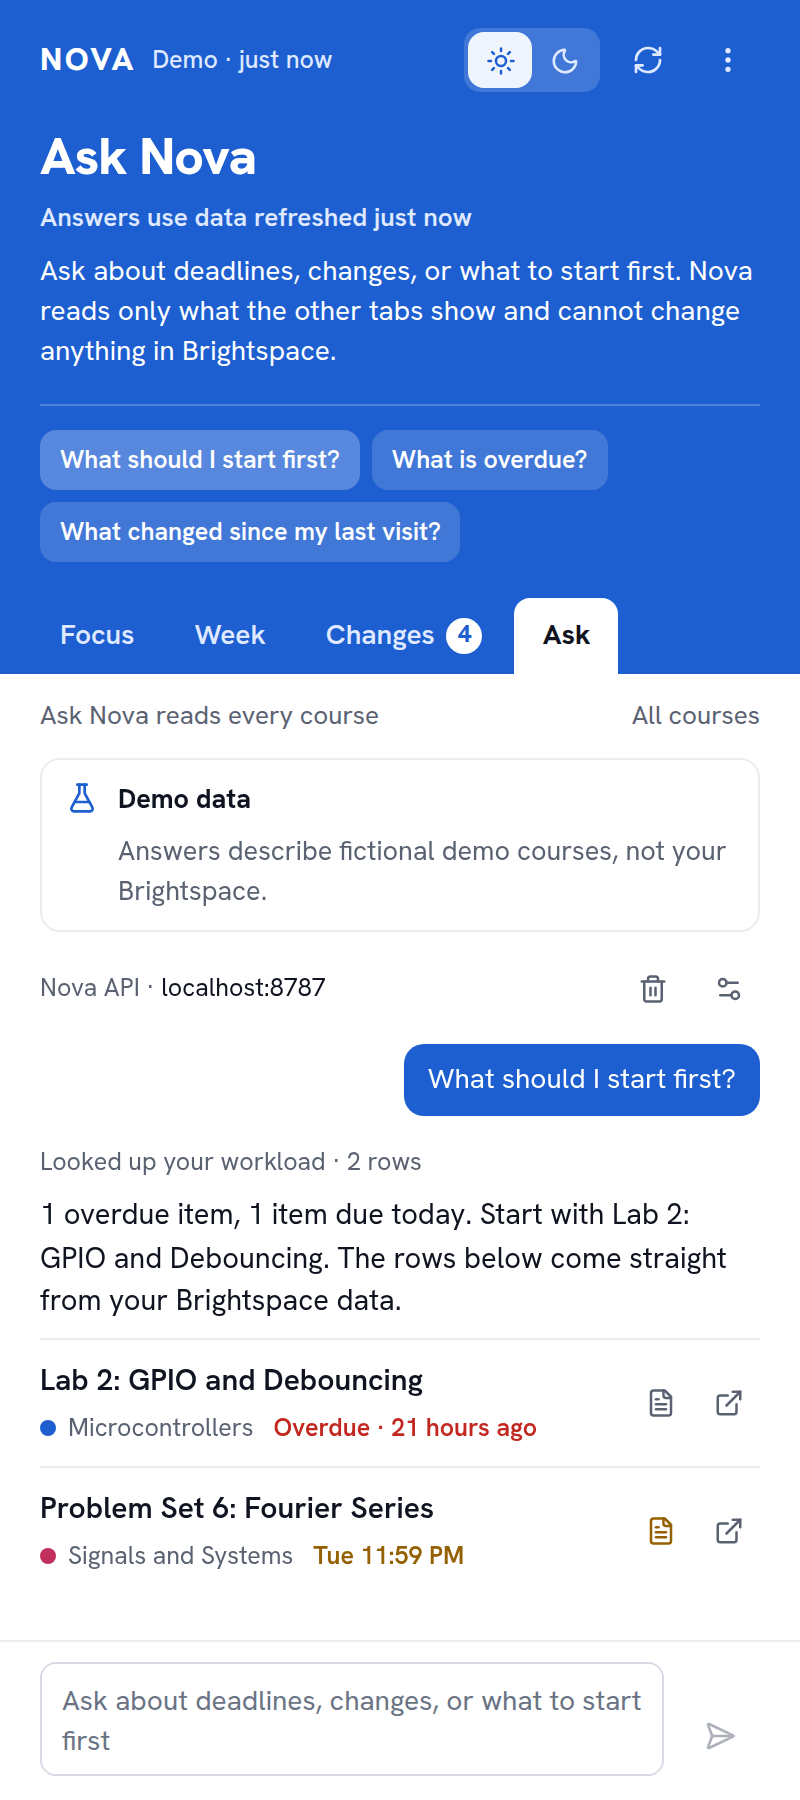
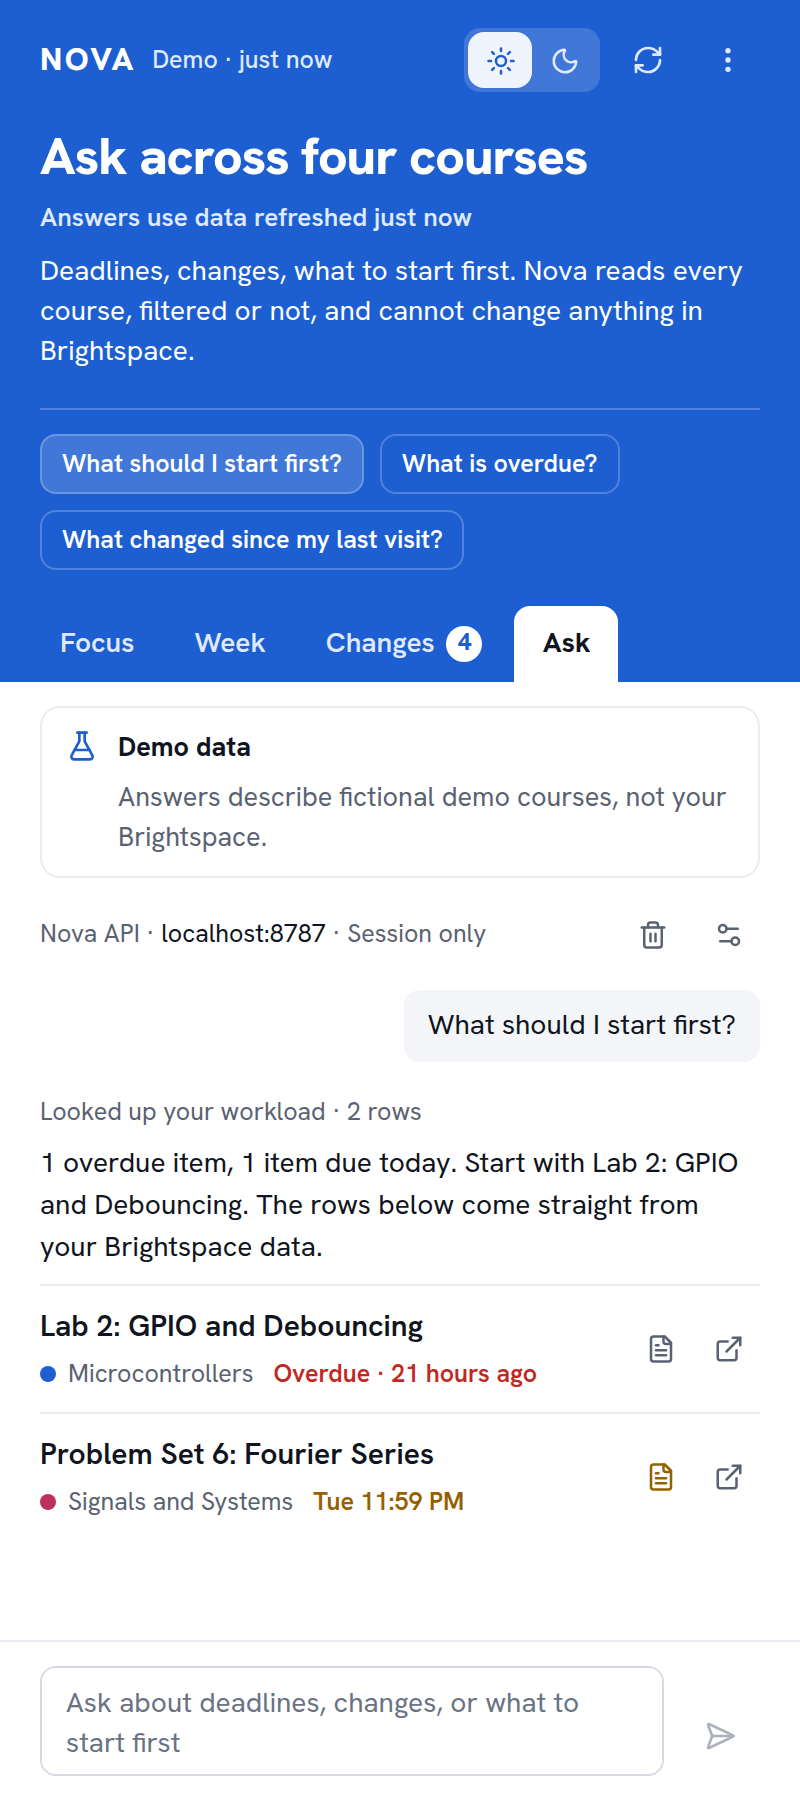
fix(extension): Ask tab finish-review fixes
- Headline is computed like the other tabs: "Ask across four courses" with
  the data age as meta, or "Ask Nova is off" with the consent card demoted
  to a plain lead.
- Chips on the field are outlined with the field rule and wash on hover;
  the user's question is a Surface wash, so the field stays the only blue
  block; answer text and spacing sit on the scale.
- No filter row on Ask; the status line carries "Session only".
- Consent copy names OpenRouter, says announcement titles ship and bodies
  do not, and claims only what the extension can vouch for.
- Change rows share the Changes tab's read state and format dates on the
  device; the thread scrolls its own container; "Thinking…" is spelled out.
- DESIGN.md and PRODUCT.md record the chips, the composer height, the
  bubble, and the named recipient.

Claude-Session: https://claude.ai/code/session_01S3WW9YeRyY937cNbjwGNCi

diff --git a/apps/extension/src/sidepanel/styles.css b/apps/extension/src/sidepanel/styles.css
@@ -372,12 +372,12 @@ h1, h2, h3, h4, p { margin: 0; }
 .ask-status { display: flex; align-items: center; gap: 6px; min-height: 32px; font-size: 12.5px; color: var(--nova-muted); }
 .ask-status .mono { color: var(--nova-ink); }
 .ask-empty { margin-top: 4px; }
-.ask-messages { display: flex; flex-direction: column; gap: 14px; }
+.ask-messages { display: flex; flex-direction: column; gap: 16px; }
 .ask-msg { display: flex; flex-direction: column; gap: 6px; }
 .ask-msg[data-role="user"] { align-items: flex-end; }
-.ask-bubble { max-width: 85%; padding: 8px 12px; border-radius: var(--nova-radius-md); background: var(--nova-accent); color: var(--nova-accent-ink); font-size: 14px; line-height: 1.4; white-space: pre-wrap; overflow-wrap: anywhere; }
-.ask-answer { font-size: 14.5px; line-height: 1.5; white-space: pre-wrap; overflow-wrap: anywhere; color: var(--nova-ink); }
-.ask-thinking { min-height: 22px; }
+.ask-bubble { max-width: 85%; padding: 8px 12px; border-radius: var(--nova-radius-sm); background: var(--nova-surface); color: var(--nova-ink); font-size: 14px; line-height: 1.4; white-space: pre-wrap; overflow-wrap: anywhere; }
+.ask-answer { font-size: 14px; line-height: 1.5; white-space: pre-wrap; overflow-wrap: anywhere; color: var(--nova-ink); }
+.ask-thinking { color: var(--nova-muted); }
 .ask-caret { display: inline-block; width: 2px; height: 1em; margin-left: 2px; vertical-align: -0.15em; background: var(--nova-accent); animation: pulse 1s ease-in-out infinite; }
 .ask-tools { display: flex; flex-direction: column; gap: 2px; }
 .ask-tool { font-size: 12.5px; color: var(--nova-muted); }
@@ -385,27 +385,26 @@ h1, h2, h3, h4, p { margin: 0; }
 .ask-tool[data-state="error"] { color: var(--nova-overdue); }
 .ask-rows { display: flex; flex-direction: column; margin-top: 2px; border-top: 1px solid var(--nova-rule); }
 .ask-note { font-size: 12.5px; color: var(--nova-muted); }
-.ask-composer { display: grid; grid-template-columns: 1fr auto; align-items: end; gap: 8px; padding: 10px 20px 12px; border-top: 1px solid var(--nova-rule); background: var(--nova-bg); }
-.ask-input { width: 100%; min-height: 40px; max-height: 112px; padding: 9px 10px; resize: none; border: 1px solid var(--nova-rule-strong); border-radius: var(--nova-radius-sm); background: var(--nova-bg); color: var(--nova-ink); font: inherit; font-size: 14px; line-height: 1.4; }
+.ask-composer { display: grid; grid-template-columns: 1fr auto; align-items: end; gap: 8px; padding: 12px 20px; border-top: 1px solid var(--nova-rule); background: var(--nova-bg); }
+.ask-input { width: 100%; min-height: 40px; max-height: 112px; padding: 8px 12px; resize: none; border: 1px solid var(--nova-rule-strong); border-radius: var(--nova-radius-sm); background: var(--nova-bg); color: var(--nova-ink); font: inherit; font-size: 14px; line-height: 1.4; }
 .ask-input::placeholder { color: var(--nova-faint); }
 .ask-input:disabled { color: var(--nova-muted); background: var(--nova-surface); }
 .ask-send { width: 40px; min-width: 40px; height: 40px; color: var(--nova-accent); }
 .ask-send:disabled { color: var(--nova-faint); }
-.ask-remaining { grid-column: 1; justify-self: end; margin-top: -4px; font-size: 12px; color: var(--nova-muted); }
-.ask-setup { display: flex; flex-direction: column; gap: 12px; padding: 14px; border: 1px solid var(--nova-rule-strong); border-radius: var(--nova-radius-md); background: var(--nova-surface-raised); }
-.ask-setup-title { display: flex; align-items: center; gap: 8px; font-size: 15px; font-weight: 700; }
-.ask-setup-title svg { color: var(--nova-accent); }
+.ask-remaining { grid-column: 1; justify-self: end; font-size: 12px; color: var(--nova-muted); }
+.ask-setup { display: flex; flex-direction: column; gap: 12px; padding: 12px; border: 1px solid var(--nova-rule); border-radius: var(--nova-radius-md); background: var(--nova-bg); }
+.ask-setup-title { font-size: 15px; font-weight: 700; color: var(--nova-ink); }
 .ask-setup-text { font-size: 13.5px; line-height: 1.45; color: var(--nova-muted); }
 .ask-field { display: flex; flex-direction: column; gap: 4px; font-size: 12.5px; font-weight: 600; color: var(--nova-muted); }
 .ask-text-input { min-height: 36px; padding: 0 10px; border: 1px solid var(--nova-rule-strong); border-radius: var(--nova-radius-sm); background: var(--nova-bg); color: var(--nova-ink); font: inherit; font-size: 14px; font-weight: 500; }
 .ask-text-input[aria-invalid="true"] { border-color: var(--nova-overdue); }
 .ask-field-error { font-weight: 500; color: var(--nova-overdue); }
-.ask-check { font-size: 13px; color: var(--nova-muted); }
+.ask-check { font-size: 12.5px; color: var(--nova-muted); }
 .ask-check[data-state="ok"] { color: var(--nova-done); font-weight: 600; }
 .ask-check[data-state="fail"] { color: var(--nova-overdue); font-weight: 600; }
-.ask-chips { display: flex; flex-wrap: wrap; gap: 6px; margin-top: 10px; padding-top: 12px; border-top: 1px solid var(--nova-field-rule); }
-.chip-on-field { min-height: 30px; padding: 0 10px; border: 0; border-radius: var(--nova-radius-sm); background: var(--nova-field-chip); color: var(--nova-field-ink); font-size: 12.5px; font-weight: 600; }
-.chip-on-field:hover:not(:disabled) { background: rgba(255, 255, 255, 0.26); }
+.ask-chips { display: flex; flex-wrap: wrap; gap: 8px; margin-top: 12px; padding-top: 12px; border-top: 1px solid var(--nova-field-rule); }
+.chip-on-field { min-height: 30px; padding: 0 10px; border: 1px solid var(--nova-field-rule); border-radius: var(--nova-radius-sm); background: transparent; color: var(--nova-field-ink); font-size: 12.5px; font-weight: 600; }
+.chip-on-field:hover:not(:disabled) { background: var(--nova-field-chip); }
 .chip-on-field:disabled { opacity: 0.6; }
 
 @keyframes hero-in { from { opacity: 0; transform: translateY(4px); } to { opacity: 1; transform: none; } }

diff --git a/apps/extension/src/sidepanel/MissionControl.tsx b/apps/extension/src/sidepanel/MissionControl.tsx
@@ -146,7 +146,7 @@ export const MissionControl = ({ dashboard, status, runtime, feasibility, prefer
       <Hero title="No data yet" meta={PHASE_LABELS[phase]} text="Nova could not complete a first refresh. Fix the connection below and retry." />
     )
   ) : tab === "ask" && ask ? (
-    <Hero {...askHero(fresh, ask.settings.enabled)} extra={ask.settings.enabled ? <AskChips dashboard={dashboard} disabled={thread.status === "streaming" || !ask.client} onPick={thread.send} /> : undefined} />
+    <Hero {...askHero(dashboard, ask.settings.enabled, status.lastSuccessfulSyncAt, now)} extra={ask.settings.enabled ? <AskChips dashboard={dashboard} disabled={thread.status === "streaming" || !ask.client} onPick={thread.send} /> : undefined} />
   ) : tab === "week" ? (
     <Hero {...weekHero(dashboard, selectedDay)} extra={<WeekStrip week={dashboard.week} courseById={dashboard.courseById} selected={selectedDay} onSelect={setSelectedDay} />} />
   ) : tab === "changes" ? (
@@ -203,8 +203,6 @@ export const MissionControl = ({ dashboard, status, runtime, feasibility, prefer
       ) : (
         "Local time"
       )
-    ) : tab === "ask" ? (
-      "Session only"
     ) : (
       "Newest first"
     );
@@ -244,11 +242,13 @@ export const MissionControl = ({ dashboard, status, runtime, feasibility, prefer
                   </button>
                 </div>
               ) : null}
-              <div className="filter-row">
-                {tab === "ask" ? <span className="filter-note">Ask Nova reads every course</span> : <CourseFilter courses={dashboard?.courses ?? []} value={preferences.courseFilter} onChange={(courseFilter) => actions.setPreferences({ courseFilter })} />}
-                <span className="spacer" />
-                <span className="filter-note">{filterNote}</span>
-              </div>
+              {tab !== "ask" ? (
+                <div className="filter-row">
+                  <CourseFilter courses={dashboard?.courses ?? []} value={preferences.courseFilter} onChange={(courseFilter) => actions.setPreferences({ courseFilter })} />
+                  <span className="spacer" />
+                  <span className="filter-note">{filterNote}</span>
+                </div>
+              ) : null}
               <Tabs.Content className="tab-content" value="focus">
                 <div className="stack">
                   <StateBanners

diff --git a/apps/extension/src/sidepanel/ask/AskSetup.tsx b/apps/extension/src/sidepanel/ask/AskSetup.tsx
@@ -1,4 +1,3 @@
-import { Sparkles } from "lucide-react";
 import { useState } from "react";
 import type { AskClientFactory } from "./askClient";
 import { normalizeApiBaseUrl, type AskSettings } from "./askSettings";
@@ -41,13 +40,18 @@ export const AskSetup = ({ settings, onChange, clientFactory, editing, onClose }
 
   return (
     <section className="ask-setup" aria-labelledby="ask-setup-title">
-      <h3 id="ask-setup-title" className="ask-setup-title">
-        <Sparkles size={16} aria-hidden="true" />
-        {editing ? "Ask Nova settings" : "Ask Nova is off"}
-      </h3>
+      {editing ? (
+        <h3 id="ask-setup-title" className="ask-setup-title">
+          Ask Nova settings
+        </h3>
+      ) : (
+        <p id="ask-setup-title" className="ask-setup-title">
+          What leaves this device
+        </p>
+      )}
       <p className="ask-setup-text">
-        When you ask a question, Nova sends it together with a compact copy of your course data (titles, due dates, statuses, links) to the Nova API below, which forwards it to the model provider and keeps nothing.
-        Cookies, raw Brightspace responses, announcement text, and your name never leave this device.
+        When you ask a question, Nova sends it with a compact copy of your course data (course names, item titles, due dates, statuses, announcement titles, links) to the Nova API you run at the address below. That API forwards it to a model on OpenRouter and Nova keeps no copy of the conversation.
+        Cookies, raw Brightspace responses, announcement bodies, and your name never leave this device.
       </p>
       <label className="ask-field">
         <span>Nova API address</span>
@@ -75,7 +79,7 @@ export const AskSetup = ({ settings, onChange, clientFactory, editing, onClose }
             <button type="button" className="button button-ghost" onClick={onClose}>
               Cancel
             </button>
-            <button type="button" className="button button-ghost button-danger" onClick={() => save(false)}>
+            <button type="button" className="button button-danger" onClick={() => save(false)}>
               Turn off
             </button>
           </>

diff --git a/apps/extension/src/sidepanel/heroes.ts b/apps/extension/src/sidepanel/heroes.ts
@@ -1,7 +1,6 @@
 import type { ChangeEvent } from "@nova-agent/core";
 import { format } from "date-fns";
-import { formatDeadline, formatRelative } from "./format";
-import type { Freshness } from "./components/FieldHeader";
+import { formatAge, formatDeadline, formatRelative } from "./format";
 import type { Dashboard, NextMove } from "./model";
 
 const WORDS = ["no", "one", "two", "three", "four", "five", "six", "seven", "eight", "nine"];
@@ -93,8 +92,15 @@ export const changesHero = (dashboard: Dashboard, lastVisitAt: string | null, no
   return { title: `${cap(plural(events.length, "change"))}, ${lead}`, meta, text };
 };
 
-export const askHero = (fresh: Freshness, enabled: boolean): Hero => ({
-  title: "Ask Nova",
-  meta: enabled ? `Answers use data ${fresh.text.replace(/^[^·]+· /, "refreshed ")}` : "Off until you turn it on",
-  text: enabled ? "Ask about deadlines, changes, or what to start first. Nova reads only what the other tabs show and cannot change anything in Brightspace." : "Questions in plain words over the same data as the other tabs. Turn it on below after reading what is sent.",
-});
+/** The Ask headline states scope and freshness, computed like every other tab's. */
+export const askHero = (dashboard: Dashboard, enabled: boolean, lastSuccessfulSyncAt: string | null, now: Date): Hero => {
+  if (!enabled) {
+    return { title: "Ask Nova is off", meta: "Turn it on below after reading what is sent", text: "Questions in plain words over the same data as the other tabs, answered through a Nova API you run." };
+  }
+  const courses = dashboard.courses.length;
+  return {
+    title: courses === 0 ? "Nothing to ask about yet" : `Ask across ${plural(courses, "course")}`,
+    meta: lastSuccessfulSyncAt ? `Answers use data refreshed ${formatAge(lastSuccessfulSyncAt, now)}` : "Answers need a refresh first",
+    text: "Deadlines, changes, what to start first. Nova reads every course, filtered or not, and cannot change anything in Brightspace.",
+  };
+};

diff --git a/apps/extension/src/sidepanel/ask/AskThread.tsx b/apps/extension/src/sidepanel/ask/AskThread.tsx
@@ -47,15 +47,17 @@ export type AskThreadProps = {
 };
 
 export const AskThread = ({ messages, status, dashboard, now, apiBaseUrl, canOpen, onOpen, onRetry, onSettings }: AskThreadProps) => {
-  const end = useRef<HTMLDivElement>(null);
+  const list = useRef<HTMLOListElement>(null);
   const lastId = messages.at(-1)?.id;
   const lastText = messages.at(-1)?.text.length ?? 0;
   useEffect(() => {
-    end.current?.scrollIntoView({ block: "end" });
+    // Scroll the thread's own container only; scrollIntoView would also move ancestor scrollers.
+    const scroller = list.current?.closest(".ask-thread");
+    if (scroller) scroller.scrollTop = scroller.scrollHeight;
   }, [lastId, lastText, status]);
 
   return (
-    <ol className="ask-messages" aria-label="Conversation">
+    <ol ref={list} className="ask-messages" aria-label="Conversation">
       {messages.map((message, index) => {
         const last = index === messages.length - 1;
         if (message.role === "user") {
@@ -84,7 +86,8 @@ export const AskThread = ({ messages, status, dashboard, now, apiBaseUrl, canOpe
                 {streaming ? <span className="ask-caret" aria-hidden="true" /> : null}
               </p>
             ) : streaming ? (
-              <p className="ask-answer ask-thinking" aria-label="Nova is thinking">
+              <p className="ask-answer ask-thinking">
+                Thinking…
                 <span className="ask-caret" aria-hidden="true" />
               </p>
             ) : null}
@@ -117,7 +120,6 @@ export const AskThread = ({ messages, status, dashboard, now, apiBaseUrl, canOpe
           </li>
         );
       })}
-      <div ref={end} />
     </ol>
   );
 };

diff --git a/apps/extension/src/sidepanel/ask/AskRows.tsx b/apps/extension/src/sidepanel/ask/AskRows.tsx
@@ -33,6 +33,7 @@ const asEvent = (row: Extract<ToolRow, { kind: "change" }>): ChangeEvent => ({
  */
 export const AskRows = ({ rows, dashboard, now, canOpen, onOpen }: AskRowsProps) => {
   if (rows.length === 0) return null;
+  const readState = new Map([...dashboard.changes.today, ...dashboard.changes.yesterday, ...dashboard.changes.earlier].map((event) => [event.id, event.readAt === null]));
   const openFor = (row: ToolRow): string | null => {
     if (canOpen(row.url)) return row.url;
     const home = dashboard.courseById.get(row.courseId)?.homeUrl ?? null;
@@ -115,10 +116,12 @@ export const AskRows = ({ rows, dashboard, now, canOpen, onOpen }: AskRowsProps)
         }
         const event = asEvent(row);
         const { icon, tone } = changeIcon(event);
-        const before = row.before?.dueLocal ?? (row.before?.status ? STATUS_LABELS[row.before.status] : null);
-        const after = row.after?.dueLocal ?? (row.after?.status ? STATUS_LABELS[row.after.status] : null);
+        const side = (fields: typeof row.before): string | null =>
+          fields?.dueAt !== undefined ? formatDeadline(fields.dueAt, now) : fields?.status ? STATUS_LABELS[fields.status] : null;
+        const before = side(row.before);
+        const after = side(row.after);
         return (
-          <li key={`change-${row.id}`} className="signal" data-unread="false">
+          <li key={`change-${row.id}`} className="signal" data-unread={readState.get(row.id) ?? false}>
             <span className="signal-icon" data-tone={tone} aria-hidden="true">
               {icon}
             </span>

diff --git a/tests/ui/ask.test.tsx b/tests/ui/ask.test.tsx
@@ -116,7 +116,8 @@ describe("Ask tab", () => {
     const { dashboard, events } = await demoDashboard();
     const ask = askProps(null, events, DEFAULT_ASK_SETTINGS);
     render(<MissionControl {...baseProps({ dashboard, ask })} />);
-    expect(screen.getByRole("heading", { level: 3, name: /ask nova is off/i })).toBeTruthy();
+    expect(screen.getByRole("heading", { level: 2, name: /ask nova is off/i })).toBeTruthy();
+    expect(screen.getByText(/what leaves this device/i)).toBeTruthy();
     expect(screen.getByText(/never leave this device/i)).toBeTruthy();
     expect((screen.getByRole("textbox", { name: /ask nova a question/i }) as HTMLTextAreaElement).disabled).toBe(true);
     expect(screen.queryByRole("group", { name: /suggested questions/i })).toBeNull();

diff --git a/apps/extension/src/sidepanel/ask/AskView.tsx b/apps/extension/src/sidepanel/ask/AskView.tsx
@@ -49,7 +49,7 @@ export const AskView = ({ thread, settings, onSettingsChange, clientFactory, das
         ) : (
           <div className="ask-status">
             <span>
-              Nova API · <span className="mono">{hostOf(settings.apiBaseUrl)}</span>
+              Nova API · <span className="mono">{hostOf(settings.apiBaseUrl)}</span> · Session only
             </span>
             <span className="spacer" />
             {thread.messages.length > 0 ? (

diff --git a/apps/extension/DESIGN.md b/apps/extension/DESIGN.md
@@ -297,7 +297,7 @@ The build has no cards for list content. Containers exist only as banners and em
 - **Overlays:** Surface Raised ground, 1 px Rule Strong border, 10 px radius, floating shadow, 140 ms fade; menu 6 px inset with 40 px items, popover 14 px inset at min(340 px, viewport - 24), dialog 18 px inset at min(360 px, viewport - 32) over a 45% ink scrim.
 
 ### Inputs / Fields
-The only field control is the course filter select.
+The course filter select, and on the Ask tab the composer textarea and two setup text inputs.
 - **Style:** 32 px trigger, white ground, 1 px Rule border, 8 px radius, 13 px at 600, chevron trailing.
 - **List:** floating overlay, 36 px items with a course dot, highlighted item on Surface, checked item at 700.
 - **Focus:** the shared two-ring focus shadow.
@@ -315,7 +315,7 @@ Seven equal columns on the field, each a column of 11 px day name (Field Muted),
 Task rows: 56 px minimum, 10 px vertical padding, hairline below, title 15 px 600 single-line, sub-line 12.5 px muted holding the course dot and name and a due label that takes coral (overdue, 600) or amber (today, 600). The aside holds the kind chip, hide, and expand icon buttons at 2 px gaps. Done rows strike the title through in muted. Expanding a row reveals details with a 160 ms slide-down. Event rows and signal rows follow the same hairline grammar with their own grids (see Layout); the signal icon well is a 32 px Surface square whose glyph takes Accent, Coral, Ink, or Green by event kind.
 
 ### Ask Thread
-The fourth tab keeps the field grammar (headline, meta, sentence) and adds a row of chips on the field: 30 px, Field Chip fill, Field Ink text at 12.5 px 600, one suggested question each. Below, the thread is a plain column: the student's question as a right-aligned bubble (Accent fill, Accent Ink text, 10 px radius, 85% max width), a 12.5 px muted lookup line per tool call, the answer at 14.5 px on 1.5, then matching rows in the task and signal row grammar with the same hairlines. Errors reuse the critical banner. The composer is a 40 px textarea with a 1 px Rule Strong border and a 40 px accent send button, separated from the thread by a hairline. The setup card is the one container on the tab: Surface Raised, 1 px Rule Strong, 10 px radius, 14 px padding, holding the consent statement and two 36 px text inputs.
+The fourth tab keeps the field grammar (a computed headline stating scope, a meta line with data freshness, one sentence) and adds a row of chips on the field in the strip slot: 30 px, transparent with a 1 px Field Rule border, Field Ink text at 12.5 px 600, hover washes Field Chip, one suggested question each. Below, the thread is a plain column: the student's question as a right-aligned Surface wash (ink text, 8 px radius, 85% max width; the field stays the only blue block), a 12.5 px muted lookup line per tool call, the answer at body 14 px on 1.5, then matching rows in the task and signal row grammar with the same hairlines and the same read state as Changes. Errors reuse the critical banner. The composer is a 40 px textarea (1 px Rule Strong border, 8 px 12 px inset) beside a 40 px accent send button, separated from the thread by a hairline; 40 px is the one control height reserved for the composer pair. The setup block uses the Banner container (1 px Rule, page ground, 10 px radius, 12 px inset) with a plain 15 px 700 lead and two 36 px text inputs.
 
 ### Launcher Orb
 Outside the panel, on Brightspace pages: a 44 px field-blue circle with a 14 px white core, a `0 6px 16px rgba(15,20,32,0.28)` shadow, a white 18 px count badge bordered in field blue, a 1 px lift on hover, and a white outline plus blue halo on focus. It is light-only (it sits on Brightspace's own page, not on the panel's ground) and pulses its core while syncing.

diff --git a/PRODUCT.md b/PRODUCT.md
@@ -16,7 +16,7 @@ Nova Agent is an unofficial, local-first academic assistant delivered as a Chrom
 
 ## Positioning
 
-Deterministic and explainable: every number is derived from Brightspace data on the device, every priority carries its reasons in words, and nothing leaves the device unless Ask Nova is turned on, and then only the compact course data a question needs, kept in memory for that request. "Since your last visit" is a real diff of normalized snapshots, not a notification feed. The feasibility of live access is stated honestly (demo data is always labeled).
+Deterministic and explainable: every number is derived from Brightspace data on the device, every priority carries its reasons in words, and nothing leaves the device unless the student turns Ask Nova on; then only the compact course data a question needs goes to a self-hosted Nova API, which forwards it to a model on OpenRouter and keeps it in memory for that request only. "Since your last visit" is a real diff of normalized snapshots, not a notification feed. The feasibility of live access is stated honestly (demo data is always labeled).
 
 ## Operating Context
 
